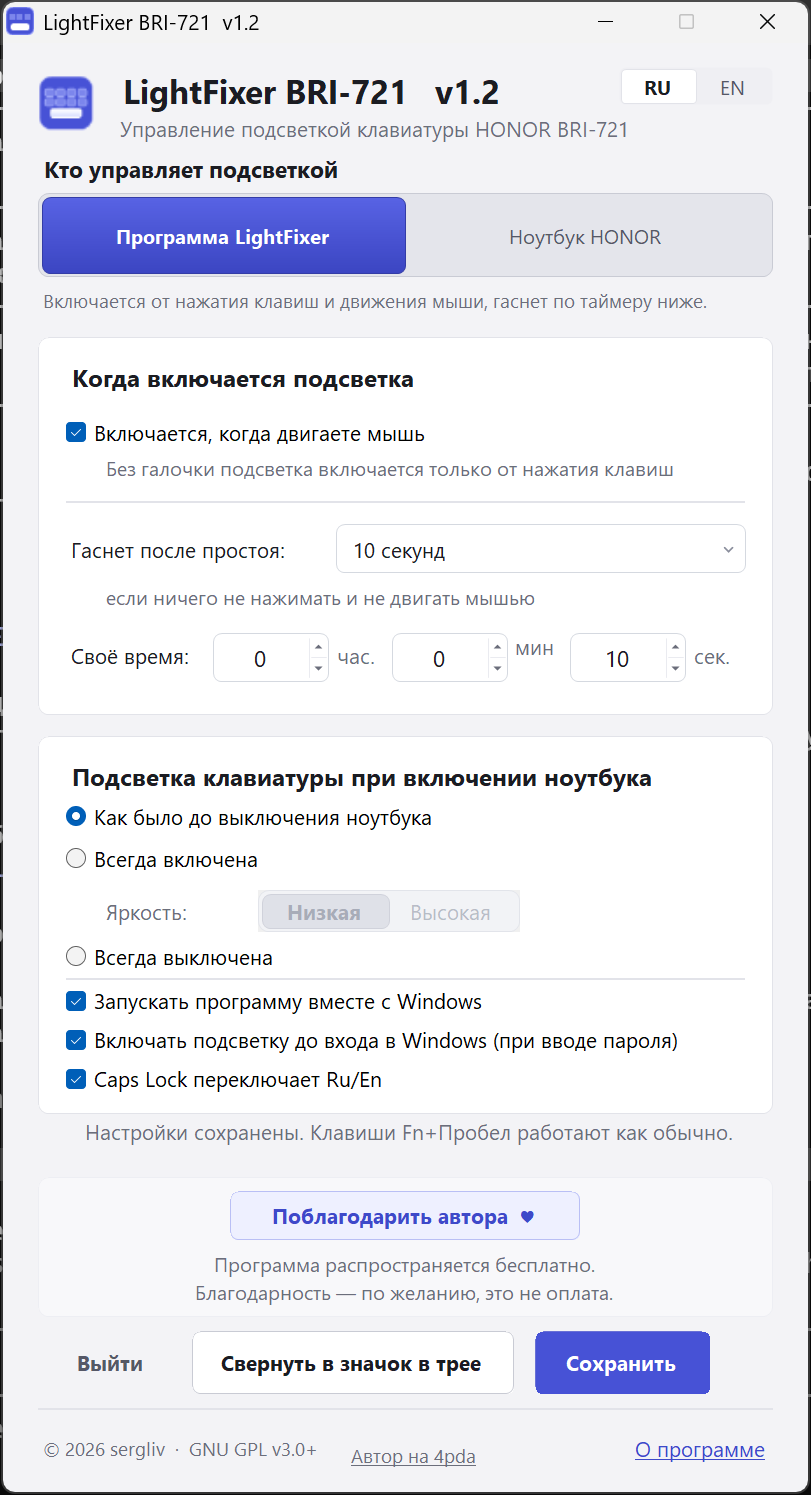
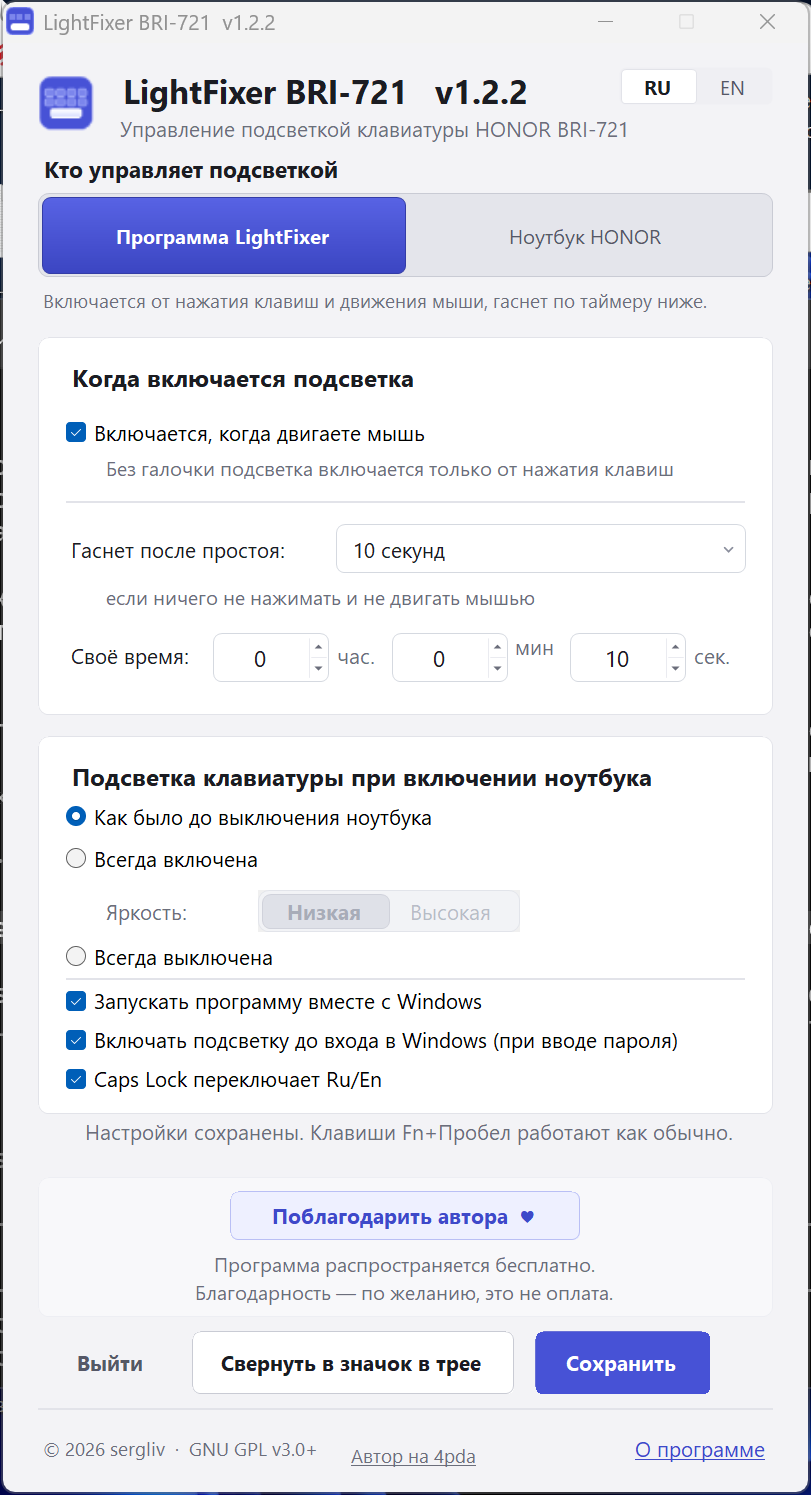
Версия 1.2.2: Fn+Space снова включает свет после старта в выключенном состоянии

diff --git a/LightFixer.cs b/LightFixer.cs
@@ -34,8 +34,8 @@ using System.Windows.Forms;
 
 // the same number must stand in three places: here, in app.manifest and in the window;
 // bump them together
-[assembly: AssemblyVersion("1.2.1.0")]
-[assembly: AssemblyFileVersion("1.2.1.0")]
+[assembly: AssemblyVersion("1.2.2.0")]
+[assembly: AssemblyFileVersion("1.2.2.0")]
 [assembly: AssemblyProduct("LightFixer BRI-721")]
 [assembly: AssemblyCopyright("Copyright (C) 2026 sergliv")]
 
@@ -513,6 +513,10 @@ namespace LightFixer
             else
             {
                 userKilled = false;
+                // the program may have started from a saved "off": that must not keep
+                // putting the light out after the user has just asked for it by hand,
+                // otherwise every press of Fn+Space looks dead
+                levelOff = false;
                 // "auto" (16) is the second step and looks exactly like "low", so the
                 // brightness level is only taken from a real low or high press
                 if (m == ModeLow || m == ModeHigh) levelMode = m;
@@ -1399,7 +1403,7 @@ namespace LightFixer
             // the window is rebuilt on every language change: the old tips would leak
             if (tipStartup != null) { tipStartup.Dispose(); tipStartup = null; }
             form = new Form();
-            form.Text = "LightFixer BRI-721  v1.2.1";
+            form.Text = "LightFixer BRI-721  v1.2.2";
             form.AutoScaleMode = AutoScaleMode.None;
             form.ClientSize = new Size(460, 828);
             form.StartPosition = FormStartPosition.CenterScreen;
@@ -1418,7 +1422,7 @@ namespace LightFixer
             form.Controls.Add(picLogo);
 
             Label title = new Label();
-            title.Text = "LightFixer BRI-721   v1.2.1";
+            title.Text = "LightFixer BRI-721   v1.2.2";
             title.Font = new Font("Segoe UI", 14f, FontStyle.Bold);
             title.ForeColor = CText;
             title.TextAlign = ContentAlignment.MiddleLeft;
@@ -1916,7 +1920,7 @@ namespace LightFixer
             dirty = false;
             SetStatus(0, L("Настройки сохранены. Клавиши Fn+Пробел работают как обычно.",
                               "Settings are saved. Fn+Space works as usual."));
-            if (form != null) form.Text = "LightFixer BRI-721  v1.2.1";
+            if (form != null) form.Text = "LightFixer BRI-721  v1.2.2";
         }
 
         // ---------- unsaved changes ----------
@@ -2029,7 +2033,7 @@ namespace LightFixer
                 }
 
                 dirty = false;
-                if (form != null) form.Text = "LightFixer BRI-721  v1.2.1";
+                if (form != null) form.Text = "LightFixer BRI-721  v1.2.2";
                 ApplyStartUpTicks();
                 string savedText = L("Сохранено. Уже действует.", "Saved. Now in effect.");
                 SetStatus(2, savedText);
@@ -2182,7 +2186,7 @@ namespace LightFixer
                             "Keyboard backlight control for HONOR BRI-721"), ContentAlignment.MiddleLeft);
 
                 Label pill = new Label();
-                pill.Text = L("версия 1.2.1", "version 1.2.1");
+                pill.Text = L("версия 1.2.2", "version 1.2.2");
                 pill.ForeColor = CLink;
                 pill.TextAlign = ContentAlignment.MiddleCenter;
                 pill.AutoSize = false;

diff --git a/README.md b/README.md
@@ -1,10 +1,12 @@
-# LightFixer BRI-721  —  версия 1.2.1
+# LightFixer BRI-721  —  версия 1.2.2
 
 Фиксер подсветки клавиатуры ноутбука **HONOR X16 Plus BRI-721** под Windows 11.
 
 Английская версия: [README.en.md](README.en.md)
 
-**Что нового в 1.2.1.** В режиме «как было до выключения» программа теперь
+**Что нового в 1.2.2.** Если выключить ноутбук, когда подсветка уже погасла, при следующем включении она тоже останется погасшей — а Fn+Пробел включает её как обычно. В версии 1.2.1 в этом состоянии клавиши не действовали.
+
+**Что было в 1.2.1.** В режиме «как было до выключения» программа теперь
 запоминает не только яркость, но и то, горела ли подсветка. Если ноутбук
 выключили с погасшей подсветкой, при следующем включении она не загорится.
 Раньше в этом режиме всегда включалась низкая яркость.

diff --git a/README.en.md b/README.en.md
@@ -1,6 +1,8 @@
-# LightFixer BRI-721  —  version 1.2.1
+# LightFixer BRI-721  —  version 1.2.2
 
 Keyboard backlight helper for the **HONOR X16 Plus 2024 (BRI-721)** notebook on Windows 11.
+
+**New in 1.2.2.** A laptop turned off with the backlight already out now comes back with it out, and Fn+Space turns it on as usual. In 1.2.1 the keys did nothing in that state.
 
 **New in 1.2.1.** In the “as it was before shutdown” mode the program now remembers
 whether the backlight was lit, not only its brightness. A laptop turned off with the
